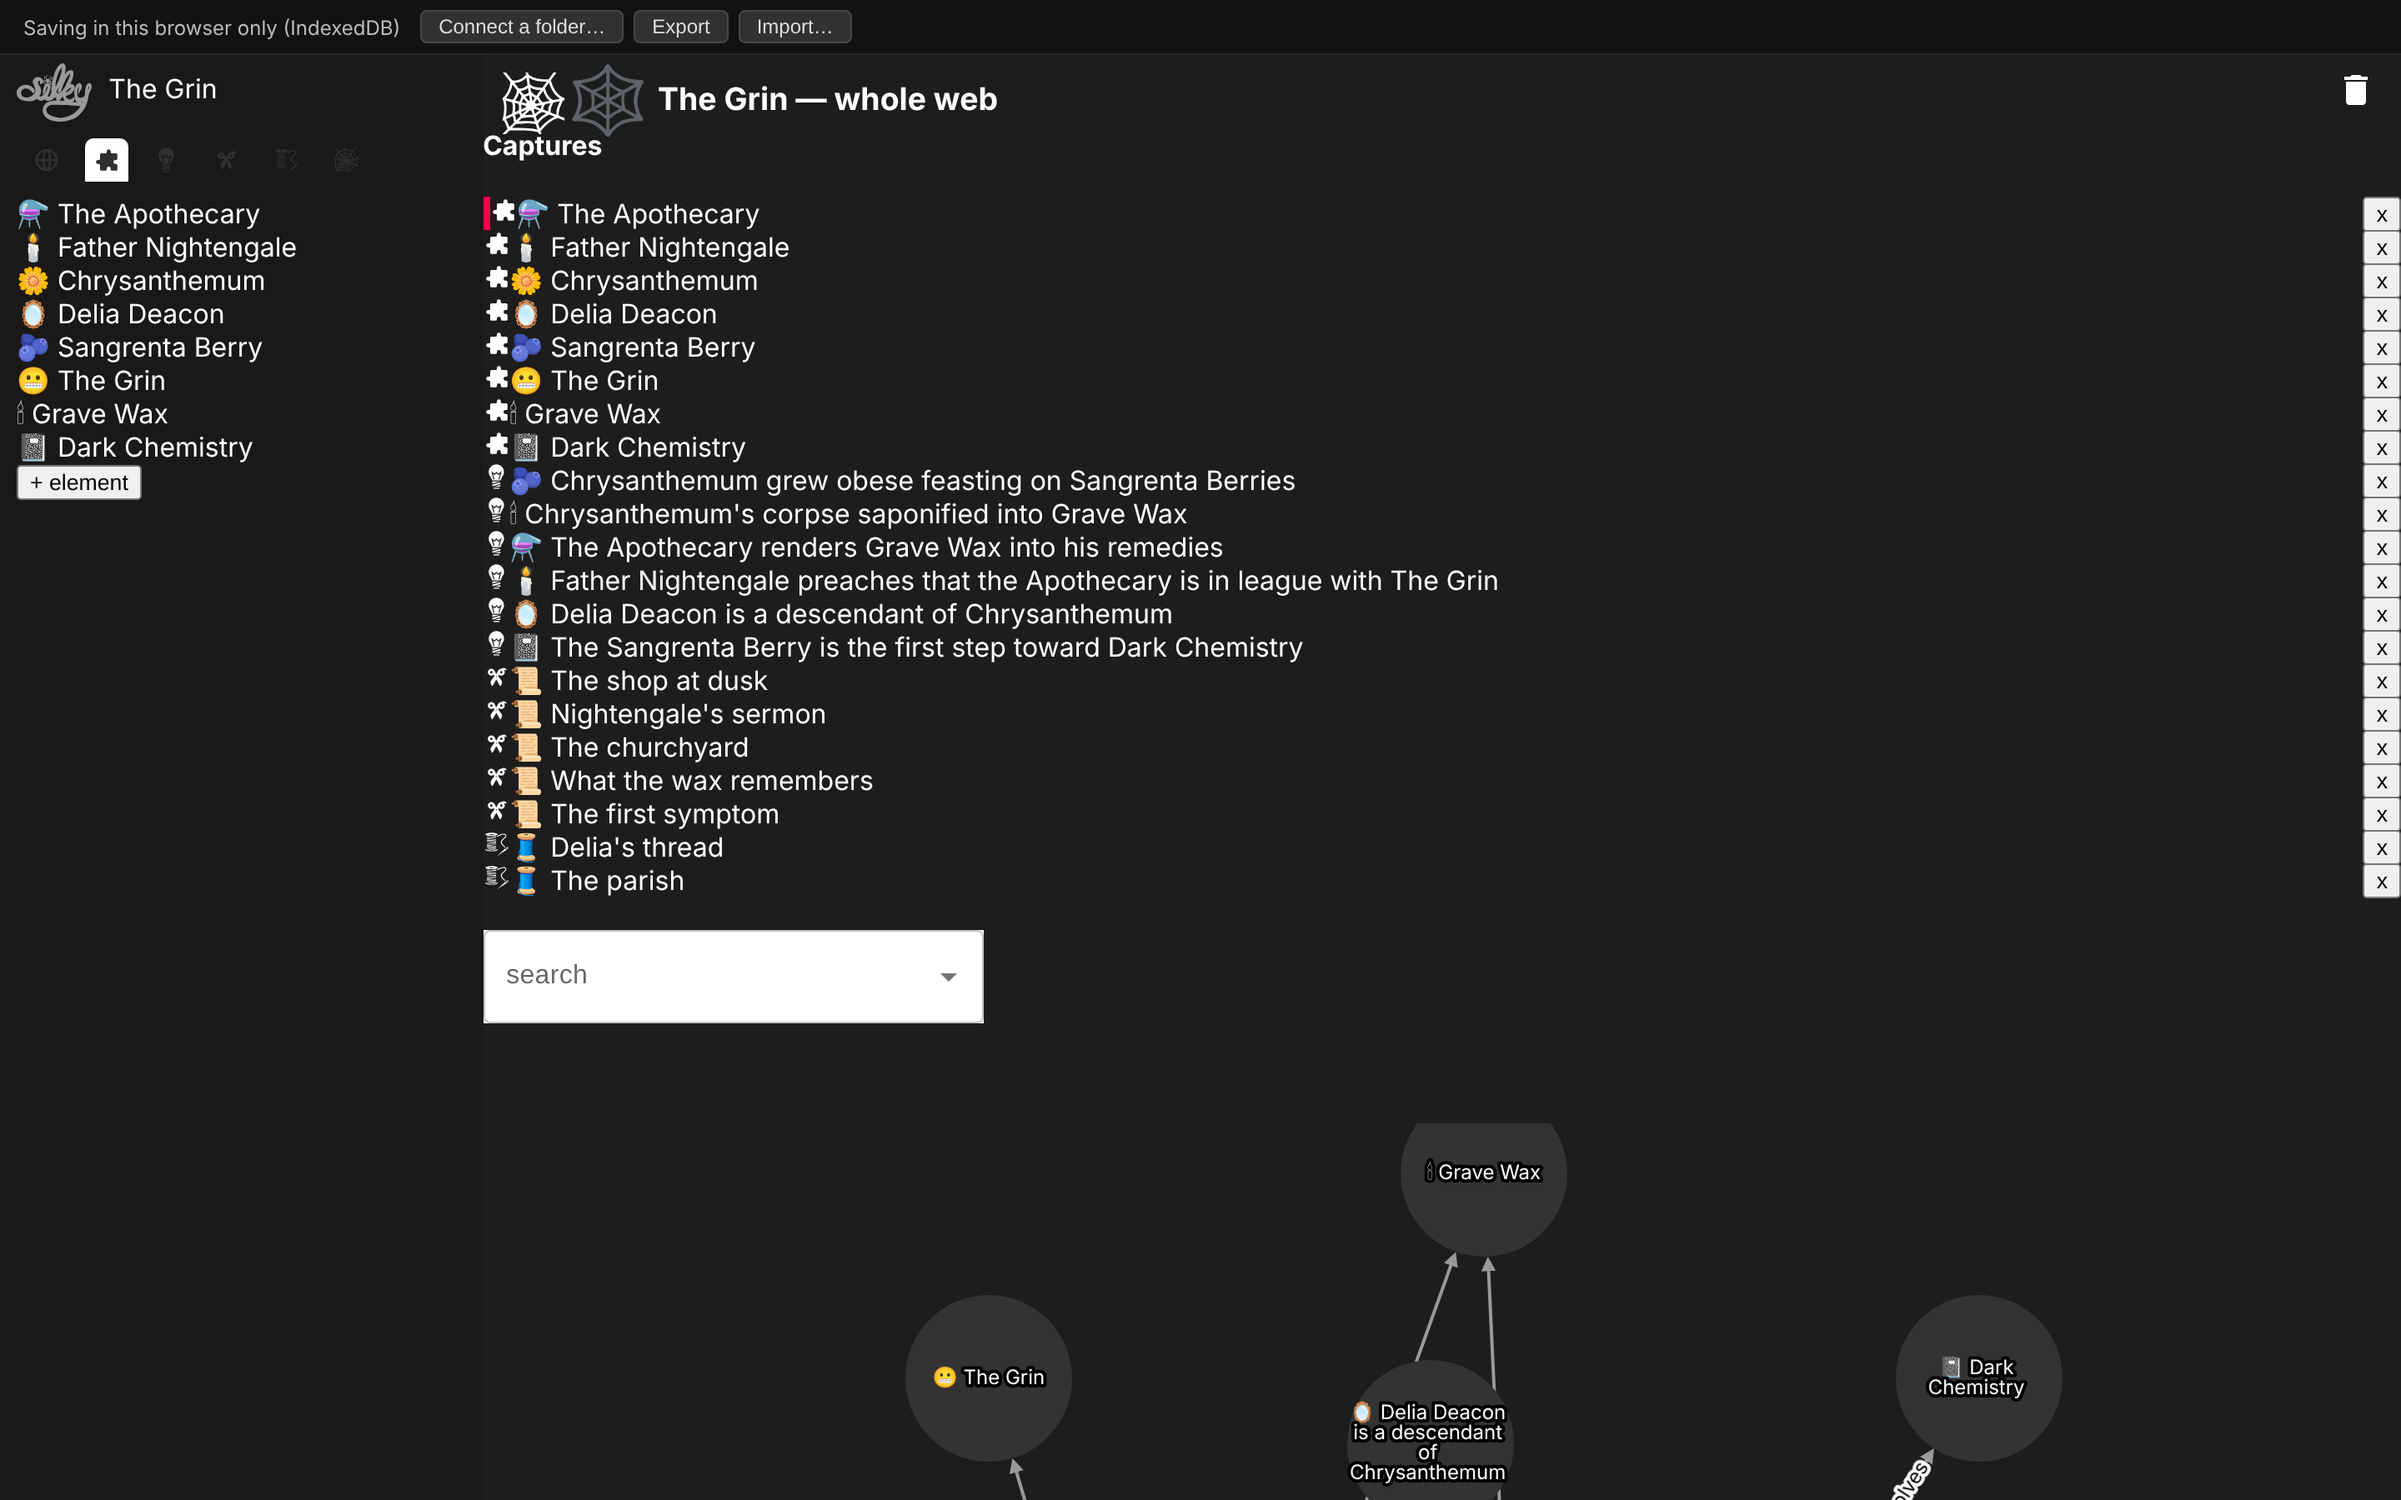
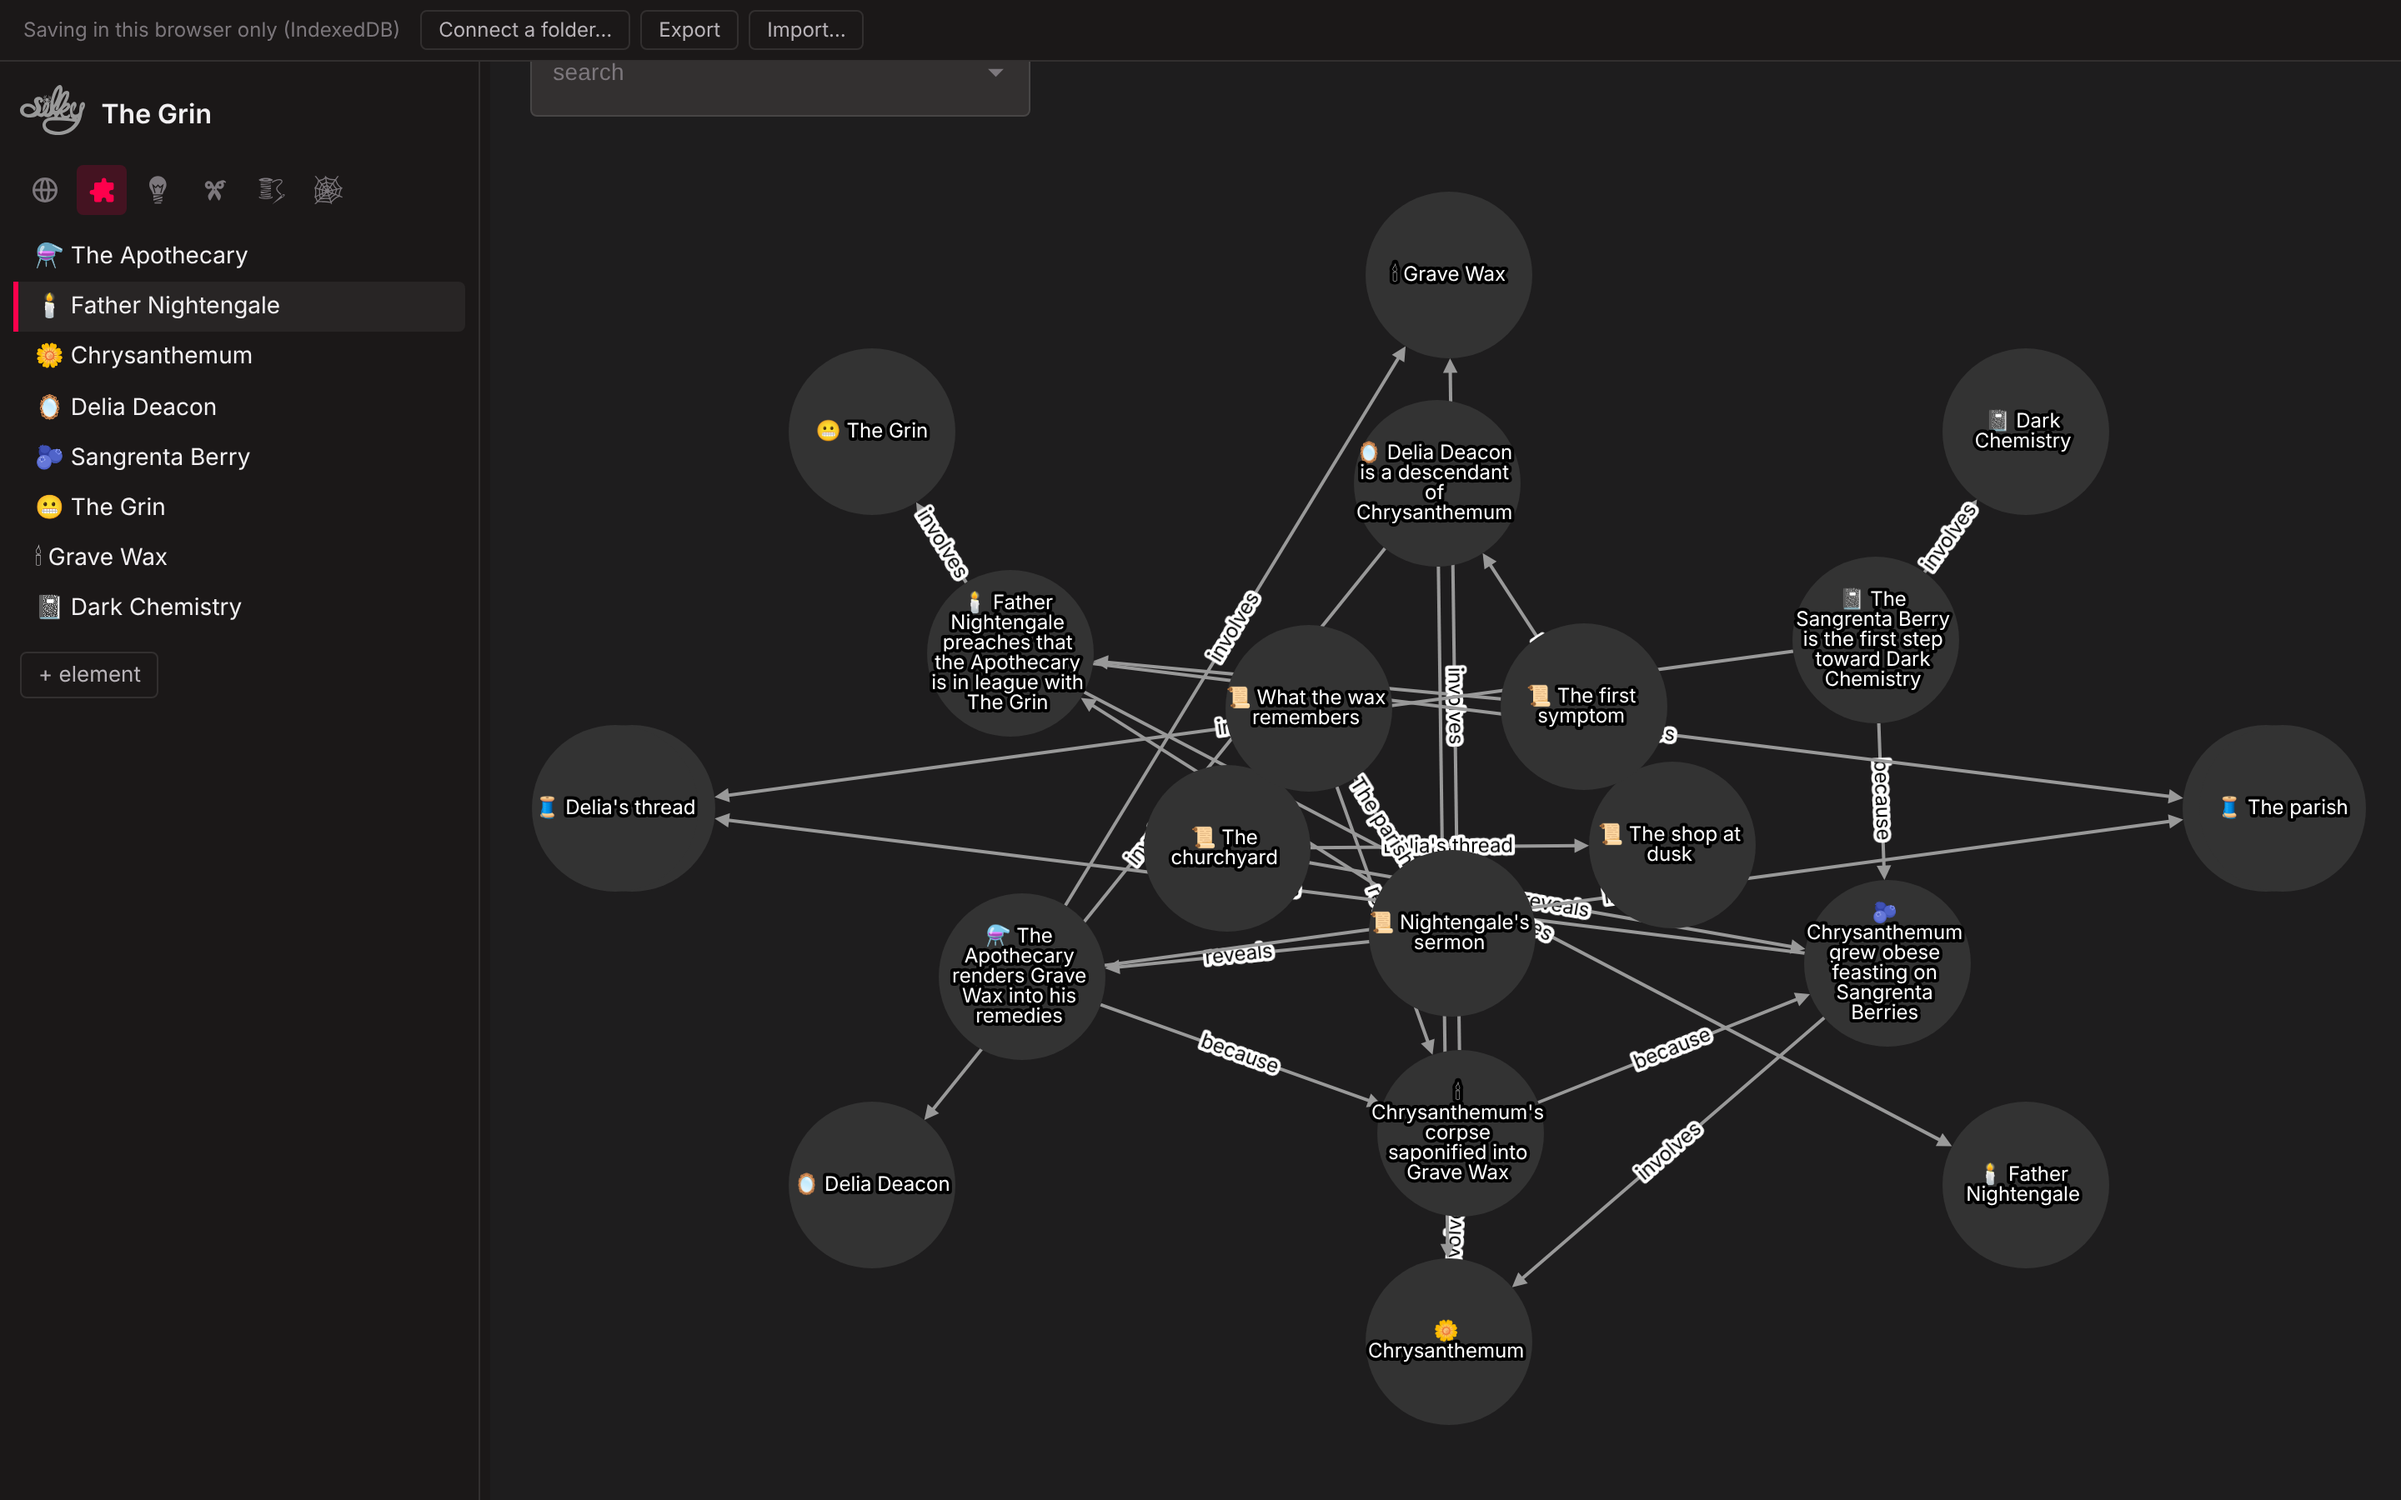
README: screenshots from the restyled build
Claude-Session: https://claude.ai/code/session_01Lk5Rd19k9M4CCiZTwTCz2S

diff --git a/README.md b/README.md
@@ -8,7 +8,7 @@ Most writing tools are a stack of pages. Silky is a graph. The things in your st
 
 Built for writers who crave dark themes. Your projects stay in your browser (or in a folder you choose); nothing is uploaded anywhere.
 
-![A Silky web: elements, facts, snippets and threads laid out as a graph, with involves / because / reveals edges between them](docs/silky-graph.png)
+![A Silky web: elements, facts, snippets and threads laid out as a graph, with involves / because / reveals edges between them](docs/silky-web.png)
 
 ## The model
 
@@ -27,11 +27,7 @@ The graph view is Cytoscape with a dozen layout engines; the editor is a rich-te
 
 ![Editing a snippet: the prose, the facts it reveals, and the thread it is sequenced in](docs/silky-snippet.png)
 
-*A snippet. The prose is on top; below it, the facts this scene reveals and the thread it belongs to. Every list is an edge in the graph.*
-
-![A web's capture list, with every actor in the project pulled into one graph](docs/silky-web.png)
-
-*A **web** captures any set of actors and draws the edges between them — `involves`, `because`, `reveals`, and `then` along threads.*
+*A snippet. The prose is on top; below it, the facts this scene reveals and the thread it belongs to. Every list is an edge in the graph. A **web** (the hero image above) captures any set of actors and draws the edges between them — `involves`, `because`, `reveals`, and `then` along threads.*
 
 ## Neo4j
 
